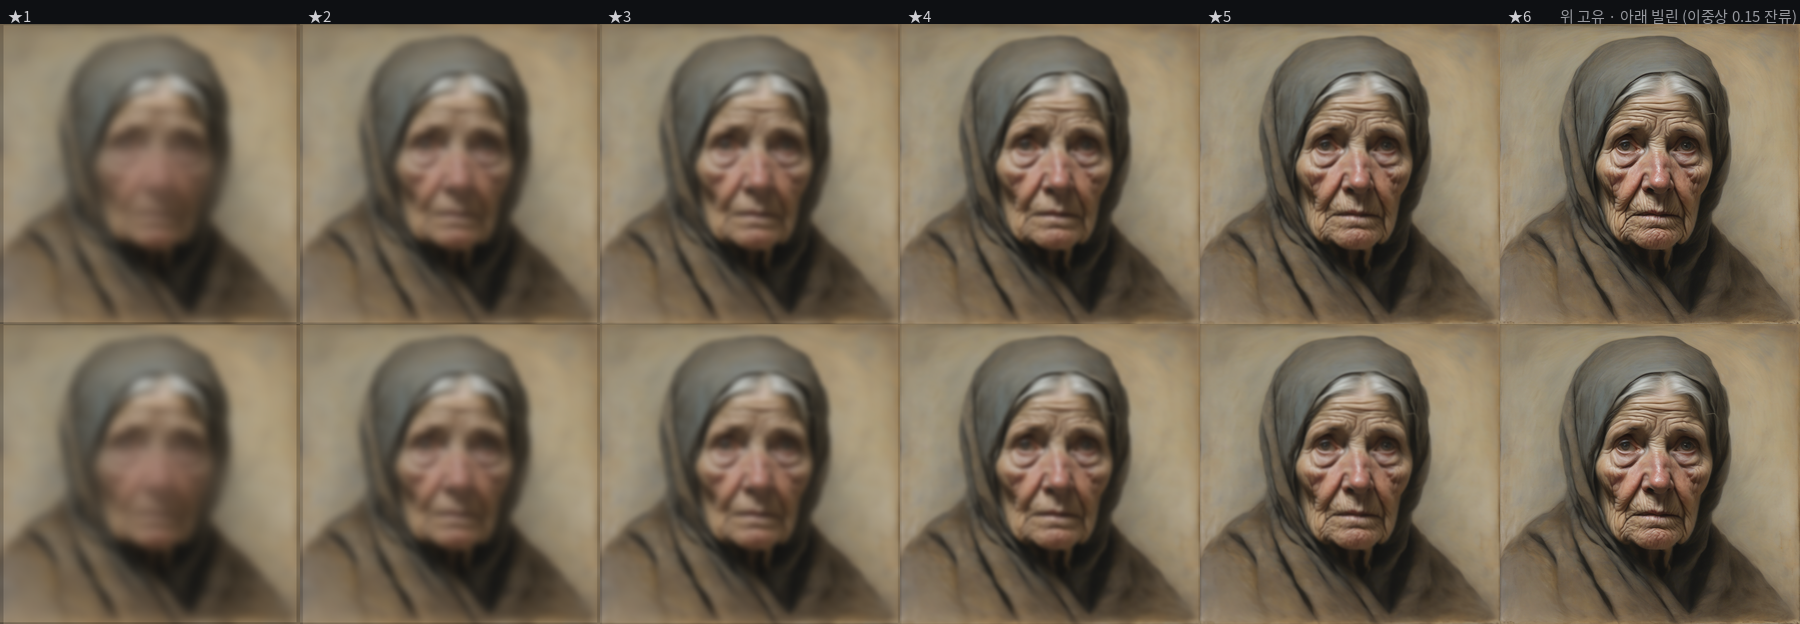
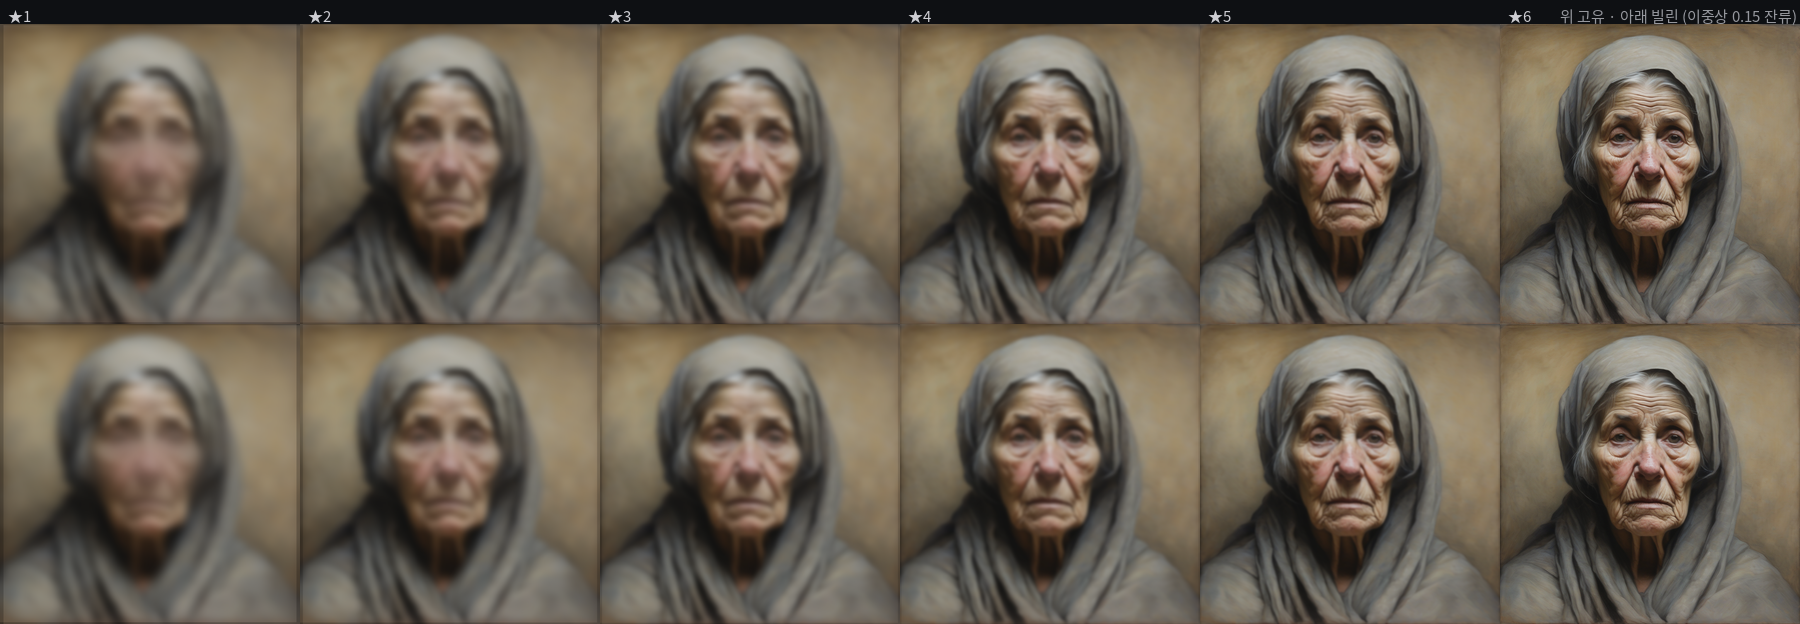
초점을 굽는 원본을 고른 장으로 바꾼다
--all 이 *_v0.png 를 긁고 있었다. v0 은 고른 장이 아니라 그냥 첫 장이라,
반신으로 나온 종은 반신인 채로 ★1~★6 이 구워졌다. 초점은 눈~입 자리에
거는 것이어서 얼굴이 작으면 이목구비가 아니라 배경이 뭉개진다.

이제 pick.json 이 있으면 거기서 원본을 가져온다 (78종 × 6단 + 대조표).
없으면 예전대로 v0 으로 떨어진다.

--record 도 같은 이유로 seren_v0 에 박혀 있던 것을 풀었다. 장 번호를
안 붙이면 pick.json 이 고른 장을 쓴다 — 지금은 seren_v5 다.
art/focus_record.png 를 그 장으로 다시 구웠다.

확인: 두 장을 눈으로 봤다 (flagbearer, devote_clergy). ★1 에서도 사람은
있고 이목구비만 안 맞는다. ★6 에서 맞는다. 빌린 쪽은 ★6 에서도 이중상이
0.15 남아 흐릿하다.

회귀: floors.json md5 8138a5c9 그대로. pacing_sim 중앙값 18일 · 최소 5일 ·
최대 24일 · 20/20 그대로. silhouette_diff 2.13% / 8.67% / 4.1배 / 10쌍 그대로.

diff --git a/tools/focus_stack.py b/tools/focus_stack.py
@@ -19,7 +19,7 @@ focus_curve.py 가 정한 값(흐림·이목구비·이중상·어긋남)을 실
 못 찾으면 화폭 기준 표준 위치로 떨어진다 (그 경우 로그에 적는다 —
 자리가 틀린 채로 뭉개면 이목구비가 아니라 뺨이 사라진다).
 """
-import argparse, os, sys, glob
+import argparse, json, os, sys, glob
 
 sys.path.insert(0, os.path.dirname(os.path.abspath(__file__)))
 from focus_curve import (blur, feature, ghost, ghost_off, focus, CAP,
@@ -135,14 +135,24 @@ def build(path, outdir, borrowed=False):
 KO_FONT = "/usr/share/fonts/opentype/noto/NotoSansCJK-Regular.ttc"
 
 
-def record(root, cid="seren_v0", w=300):
+def record(root, cid="seren", w=300):
     """검사 기록 한 장 — 위 고유 / 아래 빌린, ★1~★6.
 
     구운 그림은 무겁고 이진이라 저장소에 안 넣는다 (.gitignore).
     대신 이 한 장을 남긴다. chars/out/garments/sheet.png 와 같은 뜻이다.
+
+    장 번호를 안 붙이면 --pick 이 골라 둔 대표 장을 쓴다. 예전에는 v0 이
+    기본이었는데, v0 은 그냥 첫 장이라 반신인 종이 섞인다.
     """
     from PIL import ImageFont
-    src = os.path.join(root, "pipeline3d/out/faces", cid + ".png")
+    facedir = os.path.join(root, "pipeline3d/out/faces")
+    if "_v" not in cid:
+        pj = os.path.join(facedir, "pick.json")
+        if not os.path.exists(pj):
+            raise SystemExit(f"{pj} 가 없다. 먼저 --pick 을 돌려라.")
+        with open(pj, encoding="utf-8") as fp:
+            cid = json.load(fp)[cid]["image"][:-4]
+    src = os.path.join(facedir, cid + ".png")
     a = os.path.join(root, "art/focus"); b = os.path.join(root, "art/focus_borrowed")
     build(src, a, borrowed=False)
     build(src, b, borrowed=True)
@@ -182,7 +192,6 @@ def write_boxes(facedir):
             "w": round(w / W, 4), "h": round(h / H, 4), "found": found}
         if not found:
             miss += 1
-    import json
     with open(os.path.join(facedir, "boxes.json"), "w", encoding="utf-8") as fp:
         json.dump(rows, fp, ensure_ascii=False, indent=1)
     print(f"얼굴 상자 {len(rows)}장 → boxes.json  (검출 실패 {miss}장)")
@@ -203,7 +212,7 @@ def pick_frames(facedir):
     boxes = os.path.join(facedir, "boxes.json")
     if not os.path.exists(boxes):
         raise SystemExit("boxes.json 이 없다. 먼저 --boxes 를 돌려라")
-    import json, statistics as st
+    import statistics as st
     with open(boxes, encoding="utf-8") as fp:
         rows = json.load(fp)
     ok = [v for v in rows.values() if v["found"]]
@@ -249,8 +258,9 @@ def main():
     ap.add_argument("--boxes", action="store_true", help="얼굴 상자만 재서 boxes.json")
     ap.add_argument("--pick", action="store_true",
                     help="종마다 구도가 가장 표준에 가까운 장을 골라 pick.json")
-    ap.add_argument("--record", nargs="?", const="seren_v0", default=None,
-                    help="검사 기록 한 장 (art/focus_record.png)")
+    ap.add_argument("--record", nargs="?", const="seren", default=None,
+                    help="검사 기록 한 장 (art/focus_record.png). "
+                         "장 번호를 빼면 --pick 이 고른 장을 쓴다")
     ap.add_argument("--all", action="store_true")
     ap.add_argument("--faces", default="pipeline3d/out/faces")
     ap.add_argument("--out", default="art/focus")
@@ -270,9 +280,17 @@ def main():
         return
     srcs = [a.src] if a.src else []
     if a.all:
-        srcs = sorted(glob.glob(os.path.join(root, a.faces, "*_v0.png")))
+        # 종마다 대표 한 장. --pick 이 골라 둔 것이 있으면 그걸 쓴다.
+        # 없으면 v0 인데, v0 은 그냥 첫 장이라 반신일 수도 있다.
+        pj = os.path.join(facedir, "pick.json")
+        if os.path.exists(pj):
+            with open(pj, encoding="utf-8") as fp:
+                srcs = [os.path.join(facedir, r["image"])
+                        for _, r in sorted(json.load(fp).items())]
+        else:
+            srcs = sorted(glob.glob(os.path.join(facedir, "*_v0.png")))
     if not srcs:
-        raise SystemExit("초상을 대라. (예: tools/focus_stack.py pipeline3d/out/faces/seren_v0.png)")
+        raise SystemExit("초상을 대라. (예: tools/focus_stack.py pipeline3d/out/faces/seren_v5.png)")
 
     outdir = a.out if os.path.isabs(a.out) else os.path.join(root, a.out)
     miss = 0
